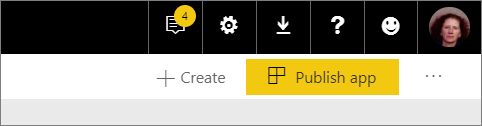
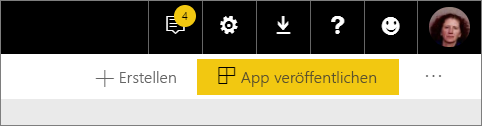
commit translated contents

Changed region(s): [[0.1867, 0.4524, 0.778, 0.7619]]

diff --git a/powerbi-docs/collaborate-share/service-new-workspaces.md b/powerbi-docs/collaborate-share/service-new-workspaces.md
@@ -9,34 +9,34 @@ ms.topic: conceptual
 ms.date: 05/07/2020
 ms.author: maggies
 LocalizationGroup: Share your work
-ms.openlocfilehash: c534a72594692c5cf404b095492e7d6425f23329
-ms.sourcegitcommit: 0e9e211082eca7fd939803e0cd9c6b114af2f90a
+ms.openlocfilehash: 701f478ce4dd59d77c1722b1386cd79ad3fbf2a0
+ms.sourcegitcommit: 250242fd6346b60b0eda7a314944363c0bacaca8
 ms.translationtype: HT
 ms.contentlocale: de-DE
-ms.lasthandoff: 05/13/2020
-ms.locfileid: "83273659"
+ms.lasthandoff: 05/20/2020
+ms.locfileid: "83693783"
 ---
 # <a name="organize-work-in-the-new-workspaces-in-power-bi"></a>Organisieren der Arbeit in den neuen Power BI-Arbeitsbereichen
 
 *Arbeitsbereiche* sind Orte für die Zusammenarbeit mit Kollegen, um Sammlungen von Dashboards, Berichten, Datasets und paginierten Berichten zu erstellen. In der neuen Benutzeroberfläche für Arbeitsbereiche können Sie den Zugriff auf Inhalte besser verwalten. Dieser Artikel beschreibt die neuen Arbeitsbereiche und ihre Unterschiede zu den klassischen Arbeitsbereichen.  Wie klassische Arbeitsbereiche verwenden Sie die neuen weiterhin zum Erstellen und Verteilen von Apps. Möchten Sie einen neuen Arbeitsbereich erstellen? Weitere Informationen finden Sie unter [Erstellen einer neuen Arbeitsbereichsoberfläche](service-create-the-new-workspaces.md).
 
-Neue, aktualisierte Arbeitsbereiche können parallel zu vorhandenen klassischen Arbeitsbereichen vorhanden sein. Die neue Benutzeroberfläche für Arbeitsbereiche ist der Standardarbeitsbereichstyp. Sie können weiterhin bei Bedarf [klassische Arbeitsbereiche](service-create-workspaces.md) basierend auf Office 365-Gruppen erstellen und verwenden. Sind Sie bereit, Ihren klassischen Arbeitsbereich zu migrieren? Einzelheiten finden Sie unter [Aktualisieren klassischer Arbeitsbereiche auf die neuen Arbeitsbereiche in Power BI](service-upgrade-workspaces.md).
+Neue, aktualisierte Arbeitsbereiche können parallel zu vorhandenen klassischen Arbeitsbereichen vorhanden sein. Die neue Benutzeroberfläche für Arbeitsbereiche ist der Standardarbeitsbereichstyp. Sie können bei Bedarf weiterhin [klassische Arbeitsbereiche](service-create-workspaces.md) basierend auf Microsoft 365-Gruppen erstellen und verwenden. Sind Sie bereit, Ihren klassischen Arbeitsbereich zu migrieren? Einzelheiten finden Sie unter [Aktualisieren klassischer Arbeitsbereiche auf die neuen Arbeitsbereiche in Power BI](service-upgrade-workspaces.md).
 
 Mit den neuen Arbeitsbereichen können Sie Folgendes durchführen:
 
-- Arbeitsbereichsrollen Benutzergruppen zuweisen: Sicherheitsgruppen, Verteilerlisten, Office 365-Gruppen und Einzelpersonen.
-- Erstellen Sie einen Arbeitsbereich in Power BI, ohne eine zugrundeliegende, zugehörige Office 365-Gruppe anzulegen. Die gesamte Arbeitsbereichsverwaltung findet in Power BI statt, nicht in Office 365.
-- Sie können auf Wunsch den Zugriff der Benutzer auf Inhalte weiterhin über Office 365-Gruppen verwalten. Fügen Sie einfach eine Office 365-Gruppe in die Zugriffsliste des Arbeitsbereichs ein.
+- Sie können Arbeitsbereichsrollen zu den folgenden Benutzergruppen zuweisen: Sicherheitsgruppen, Verteilerlisten, Microsoft 365-Gruppen und Einzelpersonen.
+- Erstellen Sie einen Arbeitsbereich in Power BI, ohne dabei eine zugrundeliegende, zugehörige Microsoft 365-Gruppe anzulegen. Verwalten Sie alle Arbeitsbereiche in Power BI und nicht in Microsoft 365.
+- Verwalten Sie auf Wunsch den Benutzerzugriff auf Inhalte weiterhin über Microsoft 365-Gruppen. Fügen Sie einfach eine Microsoft 365-Gruppe in die Zugriffsliste des Arbeitsbereichs ein.
 - Genauere Arbeitsbereichsrollen für flexiblere Verwaltung von Berechtigungen in einem Arbeitsbereich verwenden.
 
-Power BI listet weiterhin alle Office 365-Gruppen auf, deren Mitglied Sie sind. Dadurch wird das Ändern vorhandener Workflows vermieden.
+Power BI listet weiterhin alle Microsoft 365-Gruppen auf, deren Mitglied Sie sind. Dadurch wird das Ändern vorhandener Workflows vermieden.
 
 ## <a name="new-and-classic-workspace-differences"></a>Unterschiede zwischen neuen und klassischen Arbeitsbereichen
 
 Mit den neuen Arbeitsbereichen wurden einige Features neu gestaltet. Im Folgenden werden die Hauptunterschiede erläutert.
 
-* Durch das Erstellen dieser Arbeitsbereiche werden, anders als bei klassischen Arbeitsbereichen, keine Office 365-Gruppen erstellt. Sie können jedoch jetzt eine Office 365-Gruppe verwenden, um Benutzern Zugriff auf Ihren Arbeitsbereich zu gewähren, indem Sie ihm eine Rolle zuweisen. 
-* In den klassischen Arbeitsbereichen können Sie den Listen der Mitglieder und Administratoren nur Einzelpersonen hinzufügen. In den neuen Arbeitsbereichen können Sie zu diesen Listen mehrere Active Directory-Sicherheitsgruppen, Verteilerlisten oder Office 365-Gruppen hinzufügen, um die Benutzerverwaltung zu vereinfachen. 
+- Durch das Erstellen dieser Arbeitsbereiche werden, anders als bei klassischen Arbeitsbereichen, keine Microsoft 365-Gruppen erstellt. Sie können jedoch jetzt eine Microsoft 365-Gruppe verwenden, um Benutzern Zugriff auf Ihren Arbeitsbereich zu gewähren, indem Sie ihm eine Rolle zuweisen.
+- In den klassischen Arbeitsbereichen können Sie den Listen der Mitglieder und Administratoren nur Einzelpersonen hinzufügen. In den neuen Arbeitsbereichen können Sie zu diesen Listen mehrere Active Directory-Sicherheitsgruppen, Verteilerlisten oder Microsoft 365-Gruppen hinzufügen, um die Benutzerverwaltung zu vereinfachen.
 - Sie können ein organisationsbezogenes Inhaltspaket über einen klassischen Arbeitsbereich erstellen. Über den neuen Arbeitsbereich können Sie diese nicht erstellen.
 - Sie können ein organisationsbezogenes Inhaltspaket über einen klassischen Arbeitsbereich nutzen. Über die neuen Arbeitsbereiche können Sie dieses nicht nutzen.
 
@@ -47,7 +47,7 @@ Einige Features funktionieren in den neuen Arbeitsbereichen anders als in den ak
 - **Erzwingung der Lizenzierung**: Die Veröffentlichung von Berichten auf der neuen Benutzeroberfläche für Arbeitsbereiche ist mit der Erzwingung bestehenden Lizenzierungsregeln verbunden. Benutzer, die in Arbeitsbereichen zusammenarbeiten oder Inhalte für andere Benutzer des Power BI-Diensts freigeben, benötigen eine Power BI Pro-Lizenz. Benutzern ohne Pro-Lizenz wird die Fehlermeldung „Nur Benutzer mit Power BI Pro-Lizenzen können in diesem Arbeitsbereich veröffentlichen“ angezeigt.
 - **Mitglieder können eine erneute Freigabe vornehmen oder nicht**: Die Rolle „Mitwirkender“ ersetzt diese Einstellung.
 - **Schreibgeschützte Arbeitsbereiche**: Anstatt Benutzern schreibgeschützten Zugriff auf einen Arbeitsbereich zu gewähren, weisen Sie Benutzern die Rolle „Anzeigender Benutzer“ zu. Diese Rolle ermöglicht einen ähnlichen schreibgeschützten Zugriff auf den Inhalt eines Arbeitsbereichs.
-- **Benutzer ohne Pro-Lizenz** können auf den Arbeitsbereich zugreifen, wenn der Arbeitsbereich sich in einer Power BI Premium-Kapazität befindet, auch wenn Benutzer nur die Rolle „Anzeigender Benutzer“ haben.
+- **Benutzer ohne Pro-Lizenz** können nur dann auf den Arbeitsbereich zugreifen, wenn sich der Arbeitsbereich in einer Power BI Premium-Kapazität befindet und sie über die Rolle „Anzeigender Benutzer“ verfügen.
 - **Benutzern das Exportieren von Daten erlauben**: Benutzer mit der Rolle „Anzeigender Benutzer“ können Daten exportieren, wenn sie die Berechtigung „Erstellen“ für die Datasets im Arbeitsbereich haben. Erfahren Sie mehr über die [Erstellungsberechtigung für Datasets](../connect-data/service-datasets-build-permissions.md).
 - Es gibt keine Schaltfläche **Arbeitsbereich verlassen**.
 
@@ -59,9 +59,9 @@ Erfahren Sie mehr über die [Arbeitsbereichs-Kontaktliste](service-create-the-ne
 
 ### <a name="workspace-onedrive"></a>OneDrive für Arbeitsbereich
 
-Mit dem Feature OneDrive für Arbeitsbereich können Sie eine Office 365-Gruppe konfigurieren, deren SharePoint-Dokumentbibliothek-Speicher für Arbeitsbereichsbenutzer verfügbar ist. Sie erstellen die Gruppe außerhalb von Power BI.
+Mit dem Feature „OneDrive für Arbeitsbereich“ können Sie eine Microsoft 365-Gruppe konfigurieren, deren SharePoint-Dokumentbibliothekdateispeicher für Arbeitsbereichsbenutzer verfügbar ist. Sie erstellen die Gruppe außerhalb von Power BI.
 
-Power BI synchronisiert keine Berechtigungen von Benutzern oder Gruppen, für die der Arbeitsbereichszugriff mit der Office 365-Gruppenmitgliedschaft konfiguriert ist. Die beste Vorgehensweise besteht darin, den Zugriff auf den Arbeitsbereich über dieselbe Office 365-Gruppe zu verwalten, deren Dateispeicher Sie in dieser Einstellung konfigurieren. 
+Power BI synchronisiert keine Berechtigungen von Benutzern oder Gruppen, für die der Arbeitsbereichszugriff mit der Microsoft 365-Gruppenmitgliedschaft konfiguriert ist. Die beste Vorgehensweise besteht darin, den Zugriff auf den Arbeitsbereich über dieselbe Microsoft 365-Gruppe zu verwalten, deren Dateispeicher Sie in dieser Einstellung konfigurieren.
 
 Erfahren Sie, wie Sie [OneDrive für Arbeitsbereich einstellen und darauf zugreifen können](service-create-the-new-workspaces.md#workspace-onedrive).  
 
@@ -69,7 +69,7 @@ Erfahren Sie, wie Sie [OneDrive für Arbeitsbereich einstellen und darauf zugrei
 
 Wenn Sie Zugriff auf einen neuen Arbeitsbereich gewähren möchten, fügen Sie Benutzergruppen oder Einzelpersonen einer der folgenden Arbeitsbereichsrollen hinzu: Administratoren, Mitglieder, Mitwirkende oder anzeigende Benutzer. Allen Mitgliedern einer Benutzergruppe wird die von Ihnen festgelegte Rolle zugewiesen. Wenn eine Person mehreren Benutzergruppen angehört, erhält sie die höchste Berechtigungsstufe entsprechend der ihr zugewiesenen Rollen.
 
-Mit Rollen können Sie verwalten, wer welche Aktionen in einem Arbeitsbereich durchführen kann. So können Teams zusammenarbeiten. Mithilfe der neuen Arbeitsbereiche können Sie Einzelpersonen und Benutzergruppen Rollen zuweisen: Sicherheitsgruppen, Office 365-Gruppen und Verteilerlisten. 
+Mit Rollen können Sie verwalten, wer welche Aktionen in einem Arbeitsbereich durchführen kann. So können Teams zusammenarbeiten. Mithilfe der neuen Arbeitsbereiche können Sie Einzelpersonen und Benutzergruppen Rollen zuweisen: Sicherheitsgruppen, Microsoft 365-Gruppen und Verteilerlisten.
 
 Wenn Sie einer Benutzergruppe Rollen zuweisen, verfügen die Personen in der Gruppe über Zugriffsberechtigungen für Inhalte. Wenn Sie Benutzergruppen schachteln, verfügen alle Benutzer über die Berechtigung.
 
@@ -125,11 +125,11 @@ Nein. Links zu vorhandenen Elementen in den klassischen Arbeitsbereichen werden 
 
 **Werden vorhandene Arbeitsbereiche auf die neue Benutzeroberfläche für Arbeitsbereiche mit allgemeiner Verfügbarkeit aktualisiert?**
 
-Nein. Aufgrund der allgemeinen Verfügbarkeit der neuen Benutzeroberfläche für Arbeitsbereiche wird nur der Standardarbeitsbereichstyp in die neue Benutzeroberfläche für Arbeitsbereiche geändert. Vorhandene klassische Arbeitsbereiche, die auf Office 365-Gruppen basieren, bleiben unverändert.
+Nein. Aufgrund der allgemeinen Verfügbarkeit der neuen Benutzeroberfläche für Arbeitsbereiche wird nur der Standardarbeitsbereichstyp in die neue Benutzeroberfläche für Arbeitsbereiche geändert. Vorhandene klassische Arbeitsbereiche, die auf Microsoft 365-Gruppen basieren, bleiben unverändert.
 
-**Werden Arbeitsbereiche weiterhin automatisch für Office 365-Gruppen erstellt?**
+**Werden Arbeitsbereiche weiterhin automatisch für Microsoft 365-Gruppen erstellt?**
 
-Ja. Da wir beide Typen von Arbeitsbereichen gleichzeitig unterstützen, listen wir weiterhin alle Office 365-Gruppen auf, auf die Sie in der Liste der Arbeitsbereiche Zugriff haben.
+Ja. Da wir beide Typen von Arbeitsbereichen gleichzeitig unterstützen, listen wir weiterhin alle Microsoft 365-Gruppen auf, auf die Sie in der Liste der Arbeitsbereiche Zugriff haben.
 
 ## <a name="next-steps"></a>Nächste Schritte
 

diff --git a/powerbi-docs/learning-catalog/learning-catalog-functional-consultant.md b/powerbi-docs/learning-catalog/learning-catalog-functional-consultant.md
@@ -6,12 +6,12 @@ ms.prod: powerbi
 ms.topic: article
 ms.date: 03/25/2020
 ms.author: v-lshann
-ms.openlocfilehash: 0a0964f82c80017b53feb668cca8399b18a72cfc
-ms.sourcegitcommit: 7aa0136f93f88516f97ddd8031ccac5d07863b92
+ms.openlocfilehash: 8d7642dfbac40b3a31190bc02835a4132ee12e11
+ms.sourcegitcommit: a72567f26c1653c25f7730fab6210cd011343707
 ms.translationtype: HT
 ms.contentlocale: de-DE
-ms.lasthandoff: 05/05/2020
-ms.locfileid: "81268510"
+ms.lasthandoff: 05/19/2020
+ms.locfileid: "83564064"
 ---
 # <a name="functional-application-consultant-learning-catalog"></a>Lernkatalog für Berater für Anwendungsfunktionen
 
@@ -82,7 +82,7 @@ Eine Analyse der Arbeitsaufgaben von Funktionsberatern hat gezeigt, dass sie gru
 | [Better Together: 5 Benefits Excel Users Will Get From Using Power BI](https://info.microsoft.com/excel-powerbi-better-together-ondemand.html) (Gemeinsam stärker: 5 Vorteile für Excel-Benutzer durch die Verwendung von Power BI)  | Excel ist eines der beliebtesten Programme der Welt. Millionen von Einzelpersonen und Unternehmen verwenden das Programm von der einfachen Dateneingabe bis hin zu Buchhaltung und komplexeren statistischen Analysen und Datenanalysen. Viele Personen wissen aber nicht, dass sie die Funktionalität von Excel deutlich erweitern können und dabei noch Zeit sparen und effizienter arbeiten können. All dies ist möglich, wenn Excel mit einem anderen Microsoft-Programm gekoppelt wird: Power BI. Wir gehen auf fünf verschiedene Gründe ein, warum Sie und Ihr Unternehmen von Excel und Power BI zusammen profitieren können. Am Ende sollten Sie über alle Kenntnisse verfügen, um direkt in Ihrer Organisation Daten analysieren, interpretieren und vermarkten zu können. | Webinar |   |
 | [Beyond the Spreadsheet](https://info.microsoft.com/CA-PowerBI-WBNR-FY18-05May-09-DataBeyondtheSpreadsheet-MCW0006385_02OnDemandRegistration-ForminBody.html) (Jenseits der Tabellenkalkulation)  | Aufruf an alle Excel-Benutzer und Analysten: Arbeiten Sie intelligenter, bieten Sie Mehrwert, und konzentrieren Sie sich auf das Wesentliche. Erfahren Sie, wie Sie einwandfreie Berichte erstellen, die Personen verwenden möchten, wie Sie Daten visuell freigeben, sodass diese von Kollegen ohne weitere Erklärung verstanden werden und wie Sie Erkenntnisse für jeden erreichbar machen, der sie benötigt, um Informationen zu verstehen – ganz egal wo. In dieser Onlinesitzung erleben Sie Power BI live.  | Webinar |   |
 | [Draw the right insights with Power BI and Visio](https://info.microsoft.com/ww-ondemand-powerbi-and-visio.html) (Visuelle Darstellung von Einblicken mit Power BI und Visio) | Nehmen Sie an diesem Webinar teil, um zu erfahren, wie Sie Power BI-Dashboards und Microsoft Visio-Diagramme kombinieren können, um Einblicke auf aussagekräftige Weise visuell darzustellen. Visio und Power BI sind in hohem Maß visuell und ergänzen sich auf natürliche Weise gegenseitig. Mit Visio können Sie anschauliche Diagramme erstellen, z.B. miteinander verbundene Workflows und reale Layouts. Mit Power BI erstellen Sie intuitive Dashboards anhand von Diagrammen und Zuordnungen, um KPIs zu messen und Ziele nachzuverfolgen.| Webinar |   |
-| [Power BI, Excel and Office 365: Optimize Your Enterprise Data](https://info.microsoft.com/Unlocking-the-Value-of-your-Enterprise-Data-OnDemandRegistration.html?Is=Website) (Power BI, Excel und Office 365: Optimieren Ihrer Unternehmensdaten)  | In dieser Sitzung mit vielen Demos erfahren Sie, wie Sie die einzigartigen Stärken von Microsoft Excel in Power BI nutzen können, um Ihre geschäftlichen Analysen und Erkenntnisse zu steigern.  | Webinar |   |
+| [Power BI, Excel, and Microsoft 365: Optimize Your Enterprise Data](https://info.microsoft.com/Unlocking-the-Value-of-your-Enterprise-Data-OnDemandRegistration.html?Is=Website) (Power BI, Excel und Office 365: Optimieren Ihrer Unternehmensdaten)  | In dieser Sitzung mit vielen Demos erfahren Sie, wie Sie die einzigartigen Stärken von Microsoft Excel in Power BI nutzen können, um Ihre geschäftlichen Analysen und Erkenntnisse zu steigern.  | Webinar |   |
 | [Verwenden von Power BI mit Dynamics 365 Finance and Operations](https://info.microsoft.com/ww-landing-Using-Power-BI-with-Dynamics-365-Finance-and-Operations-OnDemand.html)   | Registrieren Sie sich für dieses Webinar, um zu erfahren, wie die Power BI-Lösung für die Berichterstellung innerhalb von Dynamics 365 Finance and Operations mithilfe von Azure Data Lake eingebettet und verwaltet werden kann. Erfahren Sie, wie Sie mit Power BI handlungsrelevante Erkenntnisse schnell und ohne Dienstunterbrechungen bereitstellen und analytische Lösungen mit dem ganzen Unternehmen teilen können.  | Webinar |   |
 ## <a name="security"></a>Sicherheit<a name="security"></a>
 | Inhalt   | Beschreibung  | Format   | Länge   |

diff --git a/powerbi-docs/create-reports/desktop-drill-through-buttons.md b/powerbi-docs/create-reports/desktop-drill-through-buttons.md
@@ -6,19 +6,19 @@ ms.reviewer: ''
 ms.service: powerbi
 ms.subservice: powerbi-service
 ms.topic: conceptual
-ms.date: 03/12/2020
+ms.date: 05/19/2020
 ms.author: maggies
 LocalizationGroup: Create reports
-ms.openlocfilehash: d3cb3c8093446d4417a59c5f64ab6b85a765e3c8
-ms.sourcegitcommit: 0e9e211082eca7fd939803e0cd9c6b114af2f90a
+ms.openlocfilehash: 562e011bf280930fdcaf19cc87edc97b2bec131b
+ms.sourcegitcommit: 250242fd6346b60b0eda7a314944363c0bacaca8
 ms.translationtype: HT
 ms.contentlocale: de-DE
-ms.lasthandoff: 05/13/2020
-ms.locfileid: "83301515"
+ms.lasthandoff: 05/20/2020
+ms.locfileid: "83694032"
 ---
-# <a name="create-a-drill-through-button-in-power-bi-preview"></a>Erstellen einer Drillthroughschaltfläche in Power BI (Vorschauversion)
+# <a name="create-a-drill-through-button-in-power-bi"></a>Erstellen einer Drillthroughschaltfläche in Power BI
 
-Wenn Sie in Power BI eine Schaltfläche erstellen möchten, können Sie auf die Aktion **Drillthrough (Vorschau)** klicken. Dieser Aktionstyp erstellt eine Schaltfläche, die einen Drillthrough zu einer bestimmten Seite ausführt, um Details zu erhalten, die in einem bestimmten Kontext gefiltert werden.
+Wenn Sie eine Schaltfläche in Power BI erstellen möchten, können Sie auf die Aktion **Drillthrough** klicken. Dieser Aktionstyp erstellt eine Schaltfläche, die einen Drillthrough zu einer bestimmten Seite ausführt, um Details zu erhalten, die in einem bestimmten Kontext gefiltert werden.
 
 Eine Drillthroughschaltfläche kann nützlich sein, wenn Sie die Auffindbarkeit wichtiger Drillthroughszenarios in Ihren Berichten verbessern möchten.
 
@@ -90,7 +90,7 @@ Die Schaltfläche funktioniert wie der normale Drillthrough, sodass Sie auch Fil
 
 Wenn Sie auf die Drillthroughschaltfläche klicken, werden die Filter sowohl für den Store als auch das Produkt angezeigt, die an die Zielseite weitergeleitet werden:
 
-![Filter auf dieser Seite](media/desktop-drill-through-buttons/power-bi-button-filters-passed-through.png)
+![Filter für diese Seite](media/desktop-drill-through-buttons/power-bi-button-filters-passed-through.png)
 
 ### <a name="ambiguous-filter-context"></a>Mehrdeutiger Filterkontext
 
@@ -107,7 +107,7 @@ In diesem Beispiel ist die Schaltfläche deaktiviert, da zwei Visuals jeweils ei
 - Die deaktivierte Statusformatierung für die Schaltfläche ist an die Farbklassen im Berichtsdesign gebunden. Hier finden Sie weitere Informationen zu [Farbklassen](desktop-report-themes.md#setting-structural-colors).
 - Die Drillthroughaktion funktioniert für alle integrierten und *einige* von AppSource importierten Visuals. Es kann jedoch nicht garantiert werden, dass die Arbeit mit *allen* aus AppSource importierten Visuals möglich ist.
 
-## <a name="next-steps"></a>Weitere Schritte
+## <a name="next-steps"></a>Nächste Schritte
 Weitere Informationen zu Features, die Schaltflächen ähneln oder mit diesen interagieren, finden Sie in den folgenden Artikeln:
 
 * [Erstellen von Schaltflächen](desktop-buttons.md)

diff --git a/powerbi-docs/fundamentals/desktop-latest-update-archive.md b/powerbi-docs/fundamentals/desktop-latest-update-archive.md
@@ -9,12 +9,12 @@ ms.topic: conceptual
 ms.date: 05/19/2020
 ms.author: davidi
 LocalizationGroup: Get started
-ms.openlocfilehash: d52b3b00902b350ebb81c66c516b5f84e97fb3d0
-ms.sourcegitcommit: 250242fd6346b60b0eda7a314944363c0bacaca8
+ms.openlocfilehash: 5203f2676409de28cfa9faf9442beaeb324b6f54
+ms.sourcegitcommit: 2cb249fc855e369eed1518924fbf026d5ee07eb1
 ms.translationtype: HT
 ms.contentlocale: de-DE
-ms.lasthandoff: 05/20/2020
-ms.locfileid: "83694013"
+ms.lasthandoff: 05/24/2020
+ms.locfileid: "83812885"
 ---
 # <a name="previous-monthly-updates-to-power-bi-desktop"></a>Vorherige monatliche Updates für Power BI Desktop
 
@@ -162,7 +162,7 @@ In diesem Monat bietet das Power BI Desktop die folgenden Updates:
 
 
 ### <a name="modeling"></a>Modellierung
-* Neue DAX-Funktion: COALESCE [[Video]](https://youtu.be/DMjvJGGB_LQ?t=830)  [[Artikel]](https://docs.microsoft.com/dax/firstnonblankvalue-function-dax)  [[Blog]](https://powerbi.microsoft.com/blog/power-bi-desktop-march-2020-feature-summary/#_New_DAX_function
+* Neue DAX-Funktion: COALESCE [[Video]](https://youtu.be/DMjvJGGB_LQ?t=830)  [[Artikel]](https://docs.microsoft.com/dax/coalesce-function-dax)  [[Blog]](https://powerbi.microsoft.com/blog/power-bi-desktop-march-2020-feature-summary/#_New_DAX_function
 ) 
 
 ### <a name="visuals"></a>Visuals
